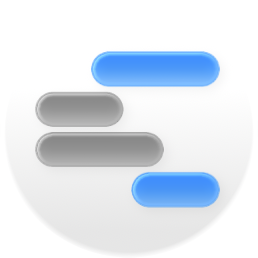
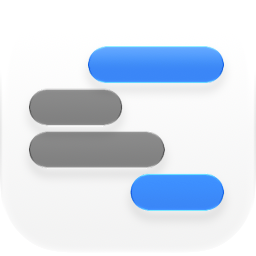
Update Relay (#3709)
- Add screenshot
- Update to correct icon shape
- Update feature support matrix

Changed region(s): [[0.0938, 0.1562, 0.875, 0.8438]]

diff --git a/content/ecosystem/clients/relay.md b/content/ecosystem/clients/relay.md
@@ -5,7 +5,8 @@ title = "Relay"
 thumbnail = "relay.png"
 maintainer = "Link Dupont"
 licence = "Apache-2.0"
-maturity = "Alpha"
+maturity = "Beta"
+screenshots = ["relay-screenshot.webp"]
 repo =  "https://github.com/subpop/Relay"
 matrix_room = "#relayapp:matrix.org"
 featured = false
@@ -19,7 +20,7 @@ sso = "unsupported"
 voip_jitsi = "unsupported"
 multi_account = "unsupported"
 multi_language = "unsupported"
-oauth = "unknown"
+oauth = "supported"
 invisible_crypto = "unknown"
 image_packs = "unknown"
 
